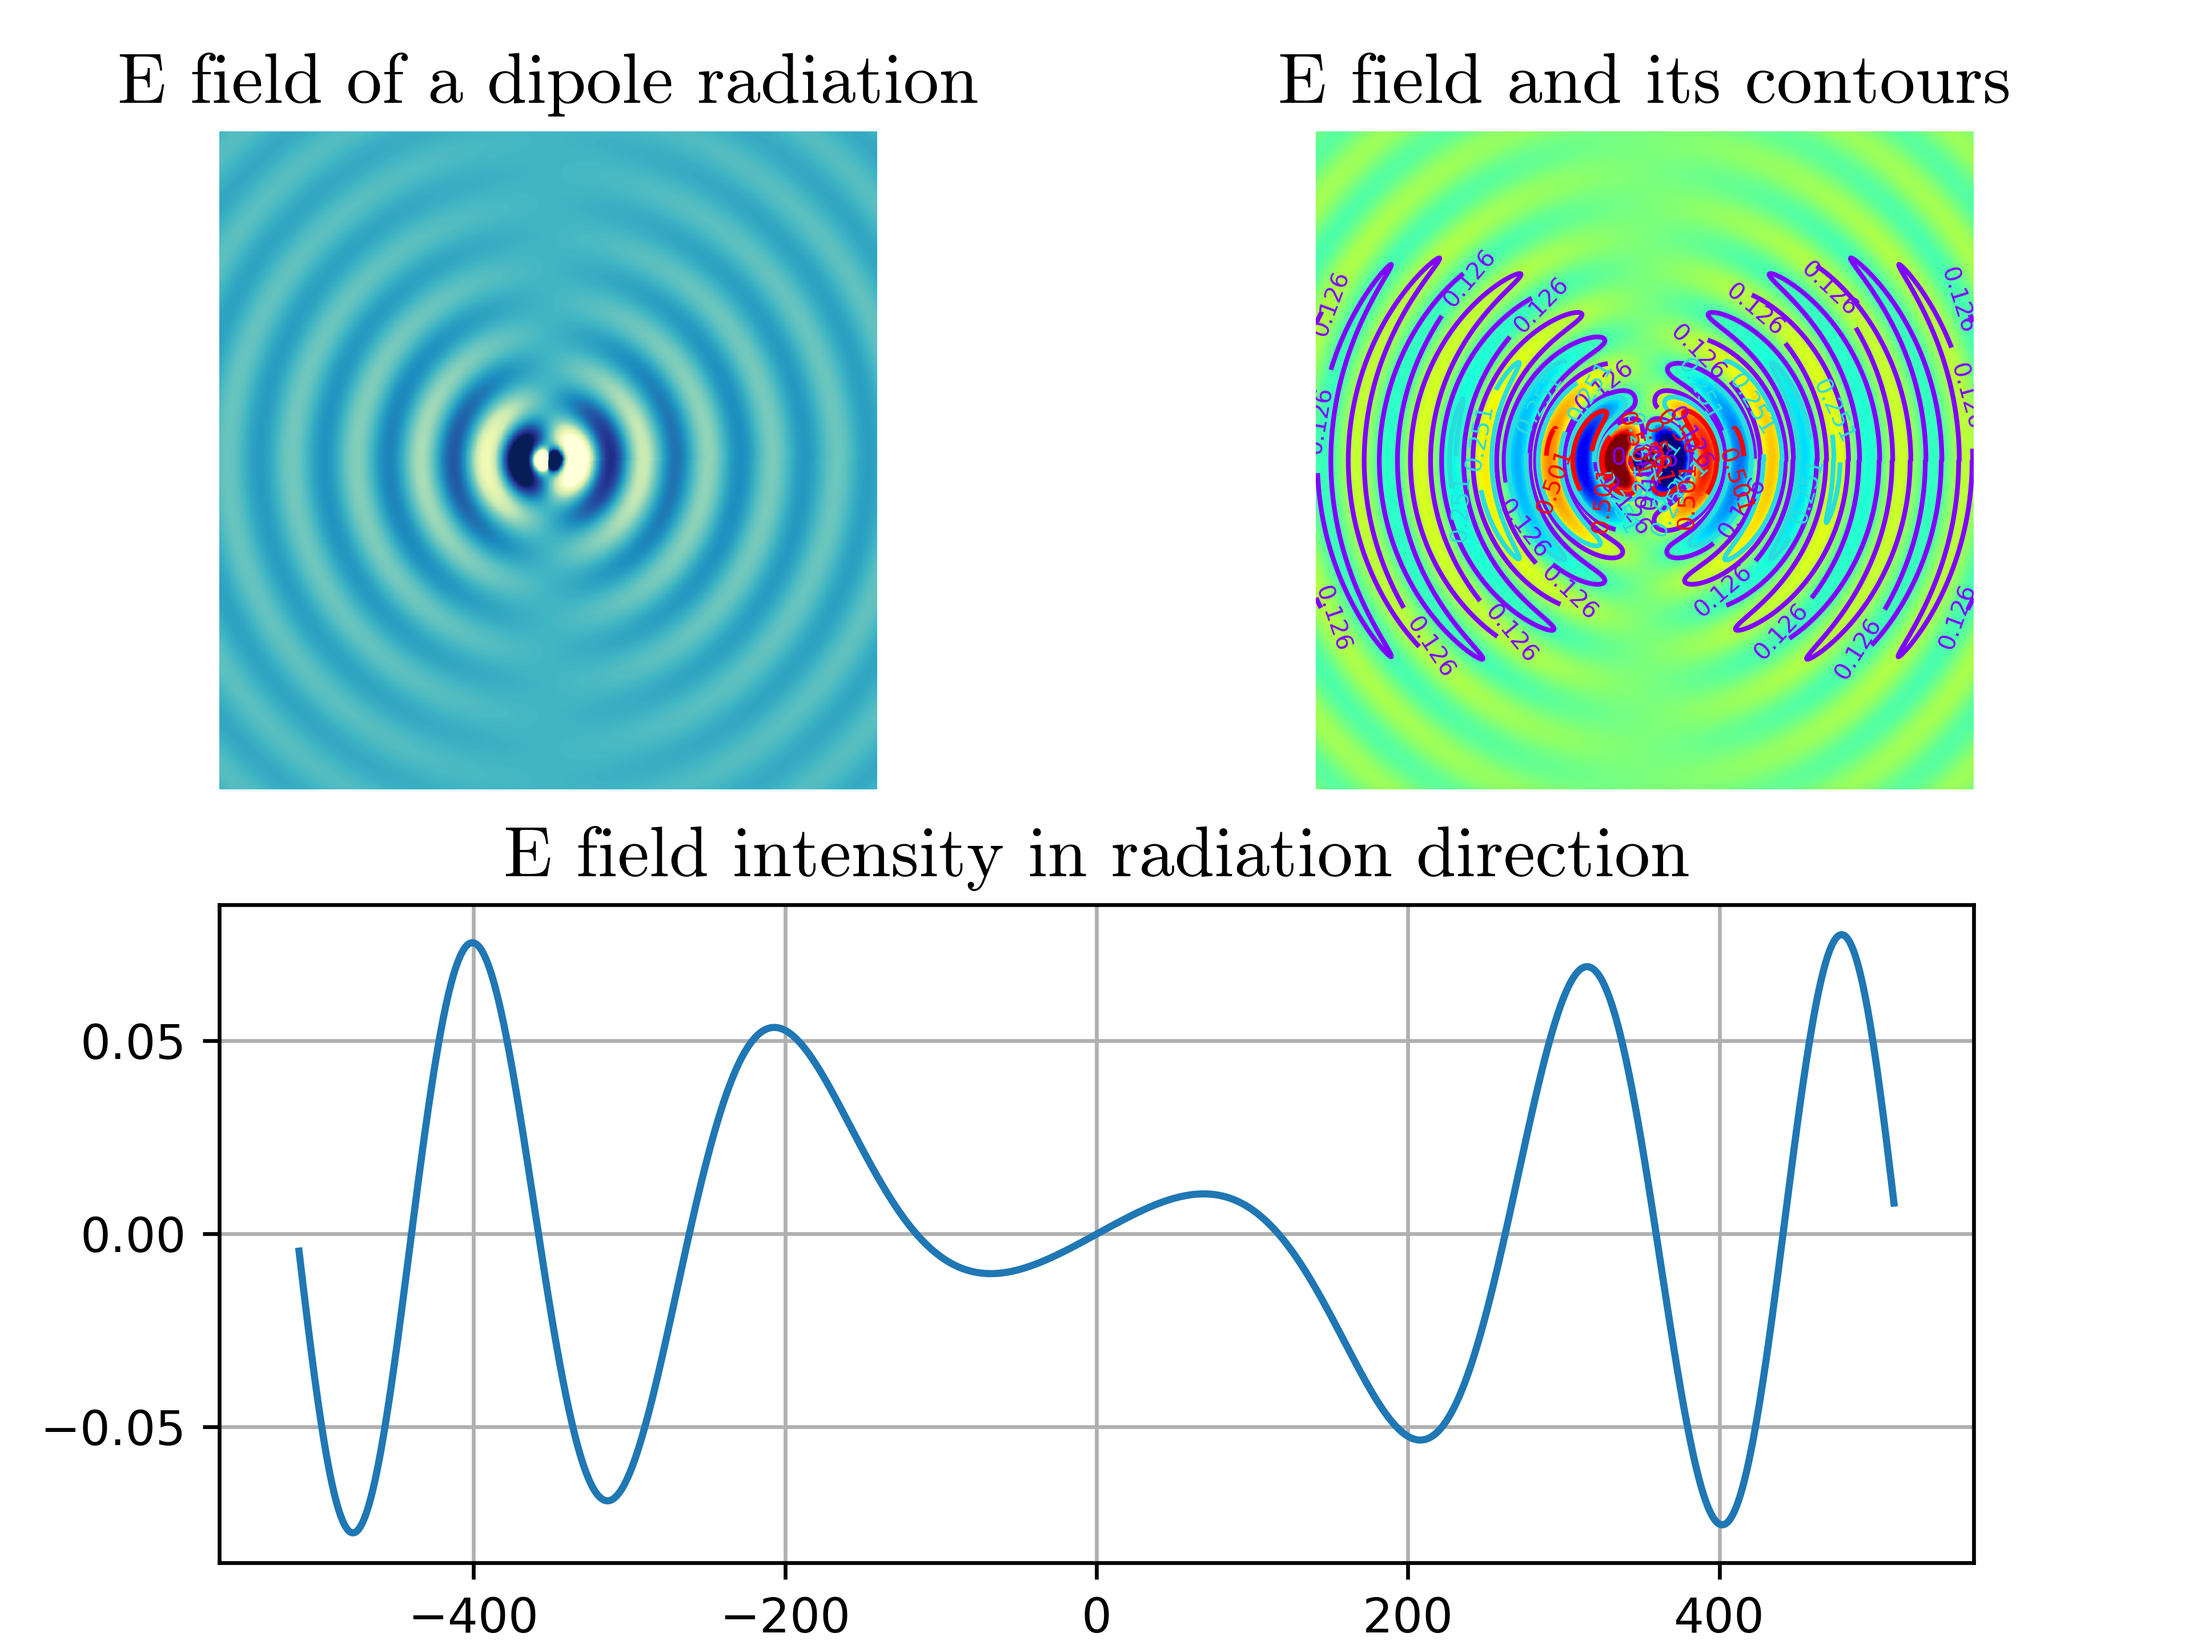
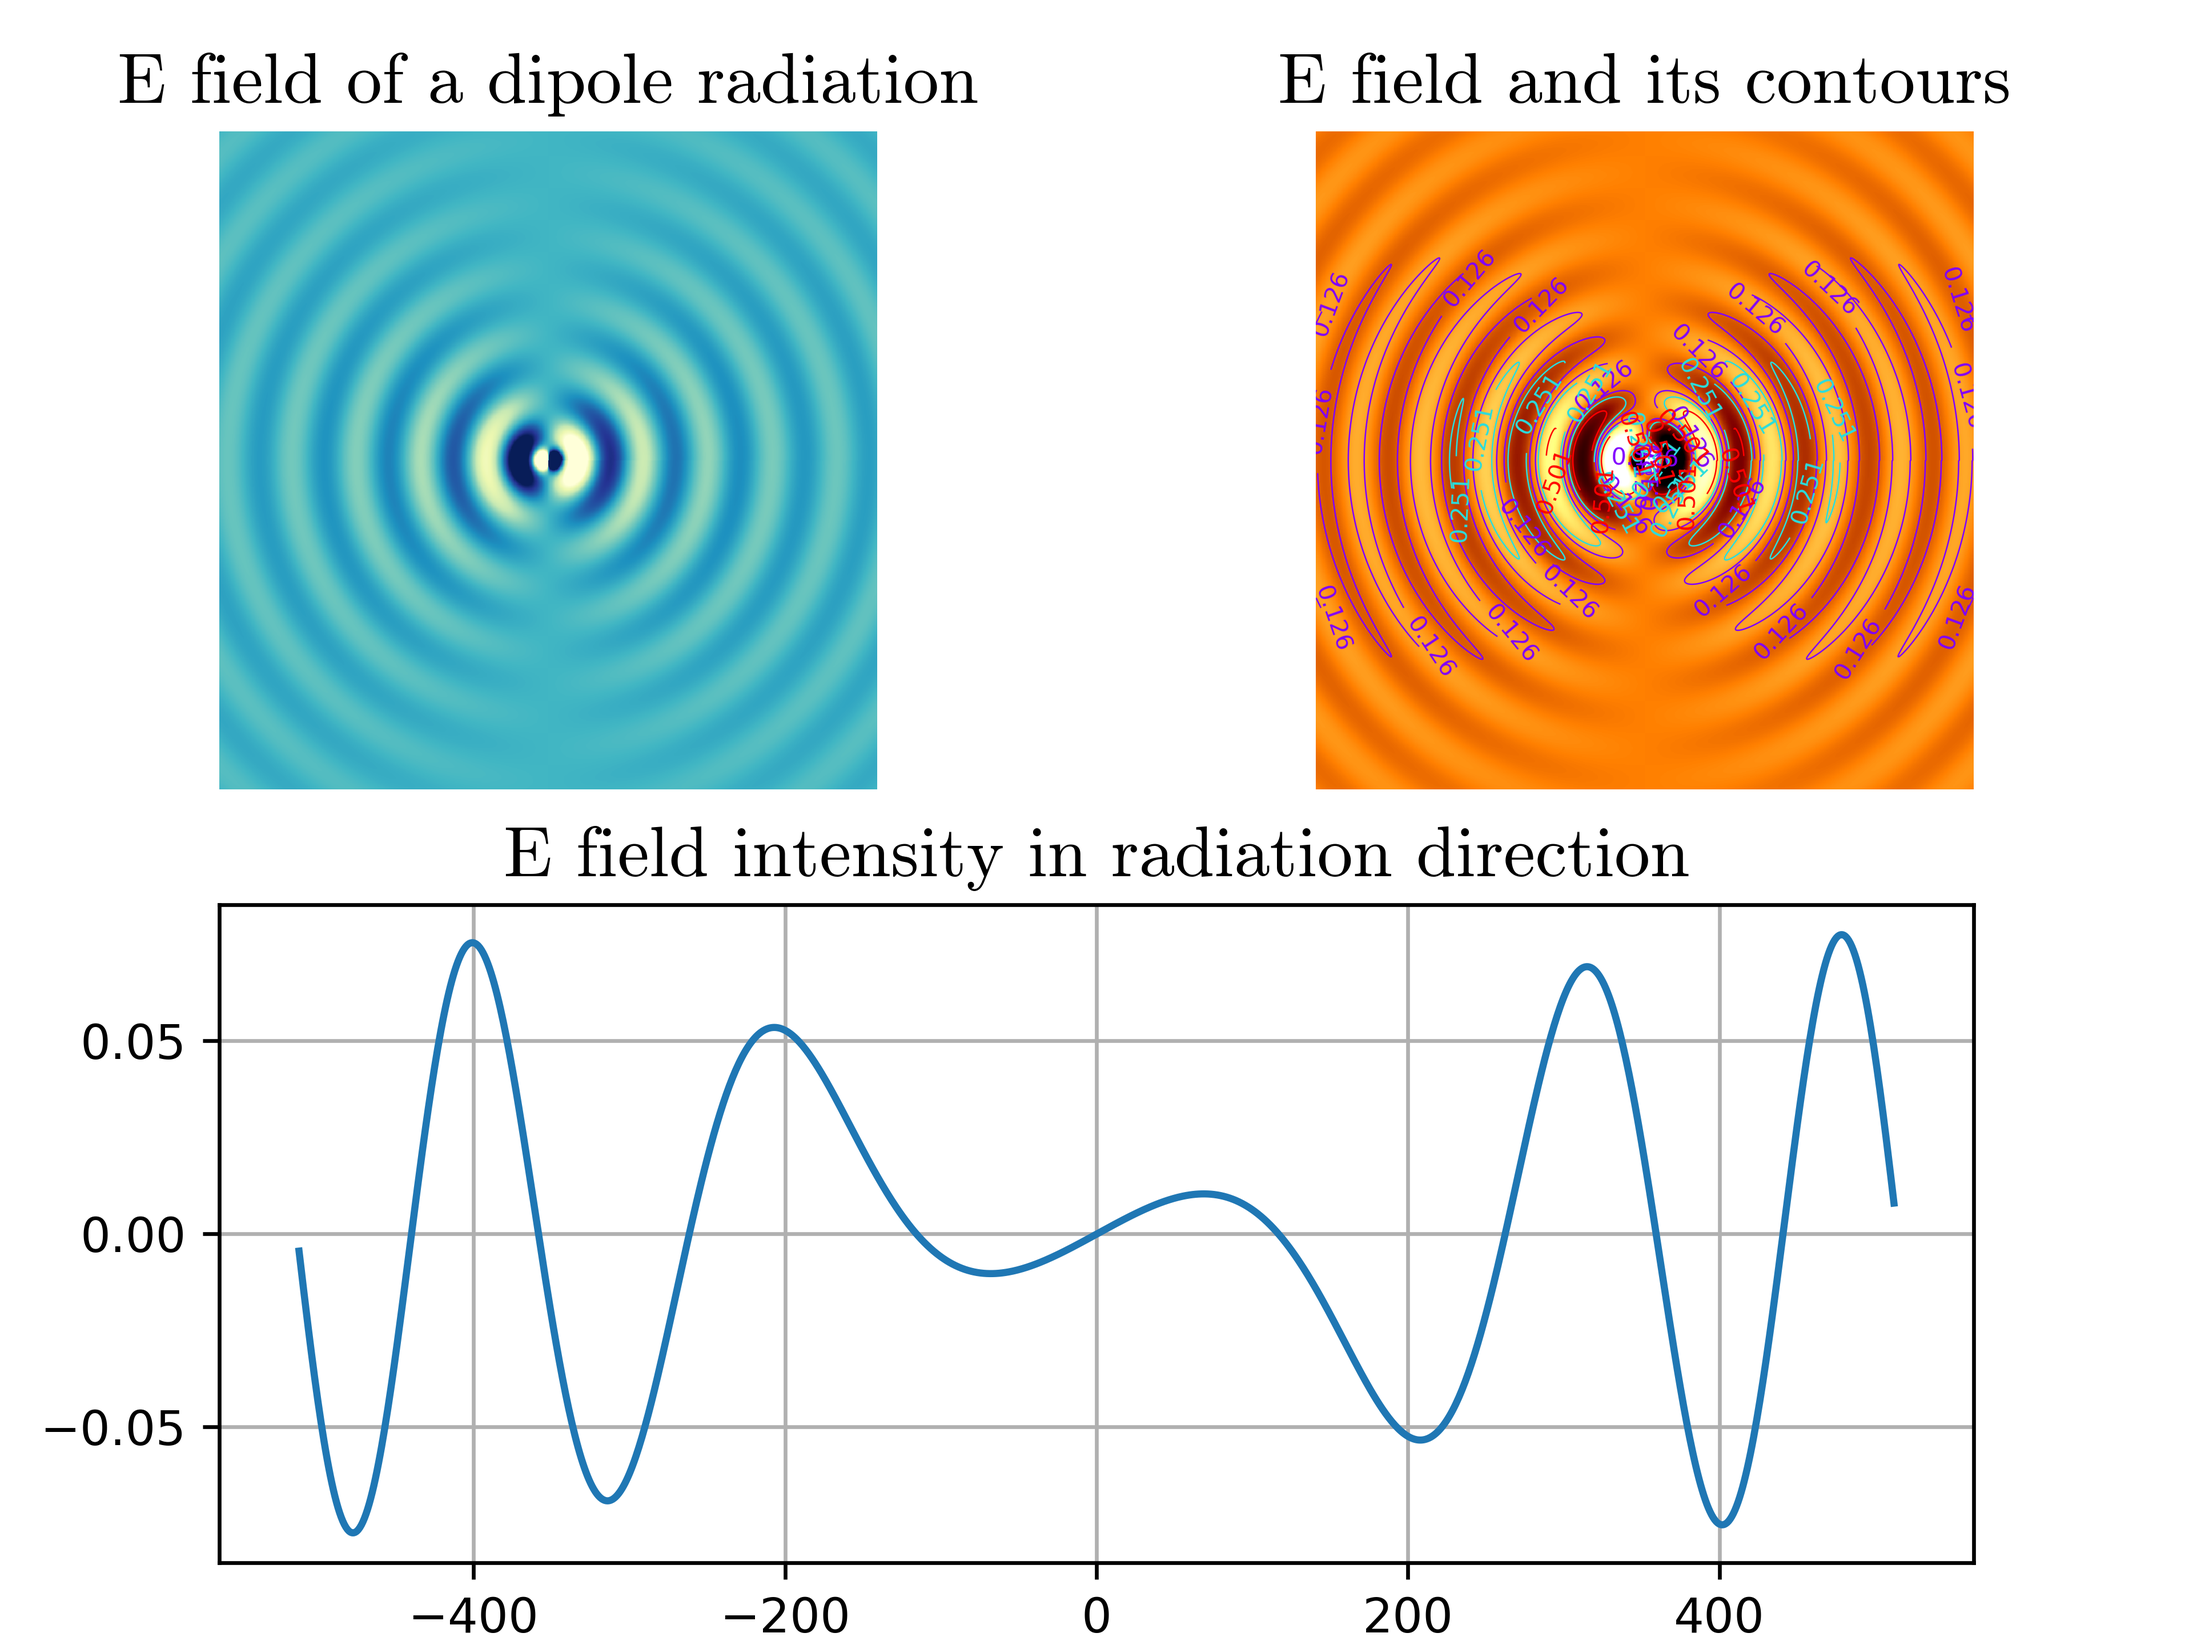
summary

Changed region(s): [[0.5938, 0.0625, 0.9062, 0.5]]

diff --git a/Edipole_map.py b/Edipole_map.py
@@ -61,9 +61,9 @@ ax1.set_title('E field of a dipole radiation', fontproperties=prop,fontsize=15)
 
 
 ax2 = plt.axes([0.55,0.52,0.4,0.4])
-ax2.imshow(E.real,cmap='jet',vmin=-1,vmax=1)
+ax2.imshow(E.real,cmap='afmhot',vmin=-1,vmax=1)
 ax2.axis('off')
-a = plt.contour(abs(E.real),N,linewidths=1,cmap = 'rainbow')
+a = plt.contour(abs(E.real),N,linewidths=0.3,cmap = 'rainbow')
 plt.clabel(a,fontsize=5)
 ax2.set_title('E field and its contours', fontproperties=prop,fontsize=15)
 

diff --git a/E4andB2.py b/E4andB2.py
@@ -46,6 +46,7 @@ ax2 = fig.add_subplot(122)
 fpath = os.path.join(rcParams["datapath"], "fonts/ttf/cmr10.ttf")
 
 prop = fm.FontProperties(fname=fpath)
+
 ax2.imshow(E.real,cmap='jet',vmin=-1/l,vmax=1/l)
 ax2.axis('off')
 # plt.colorbar()
